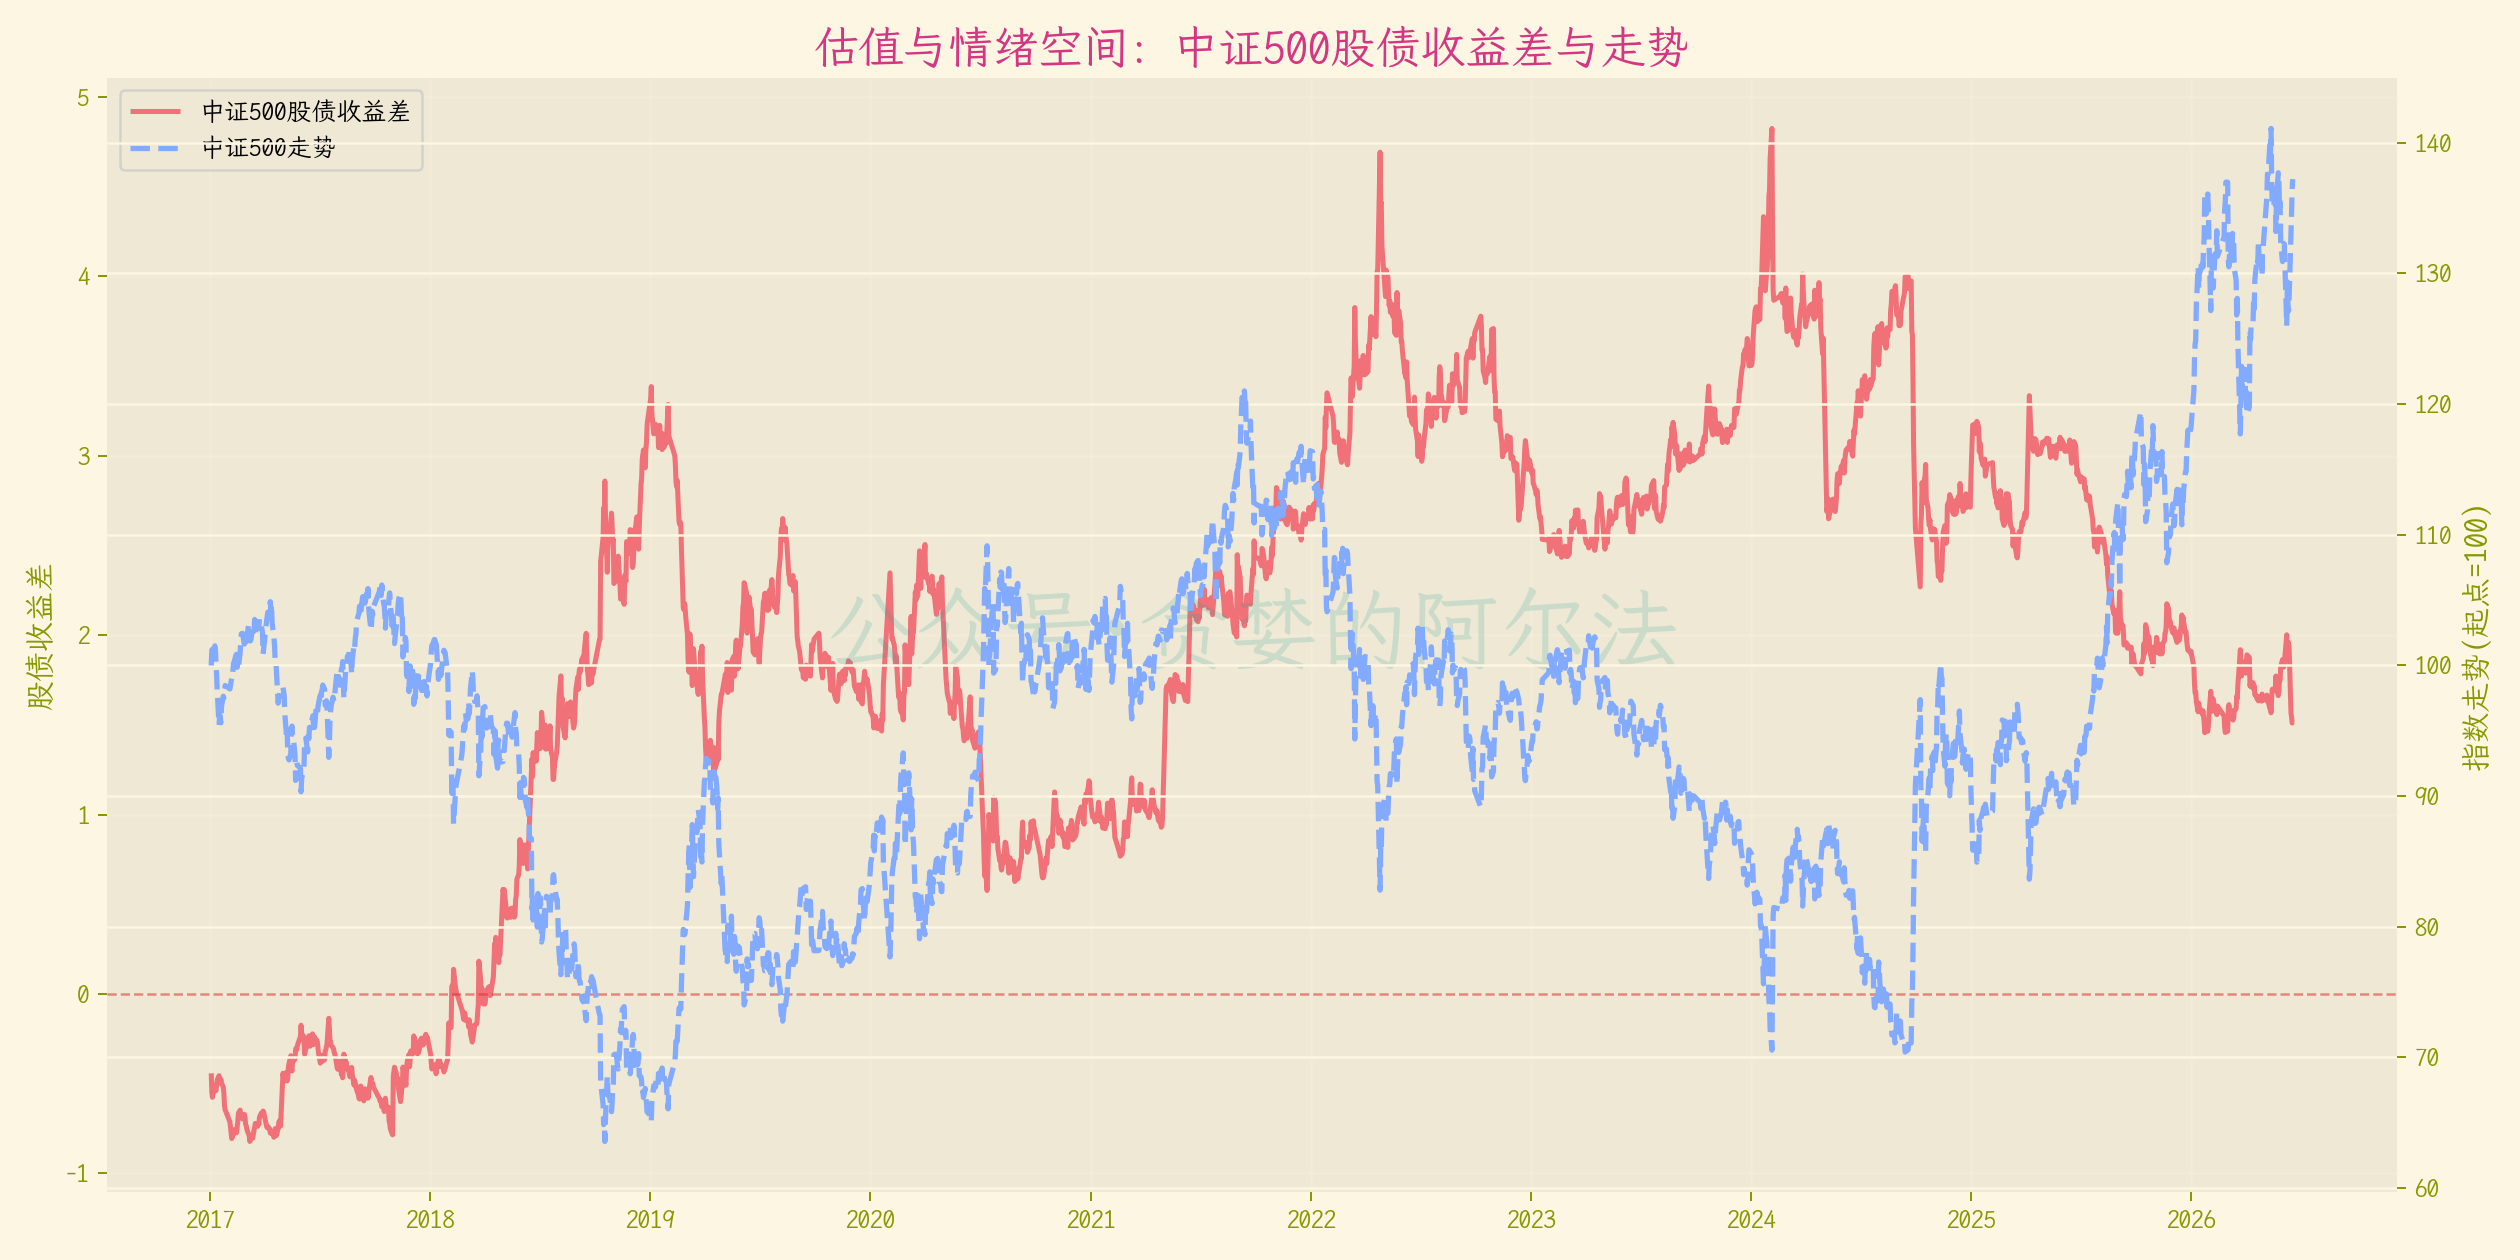
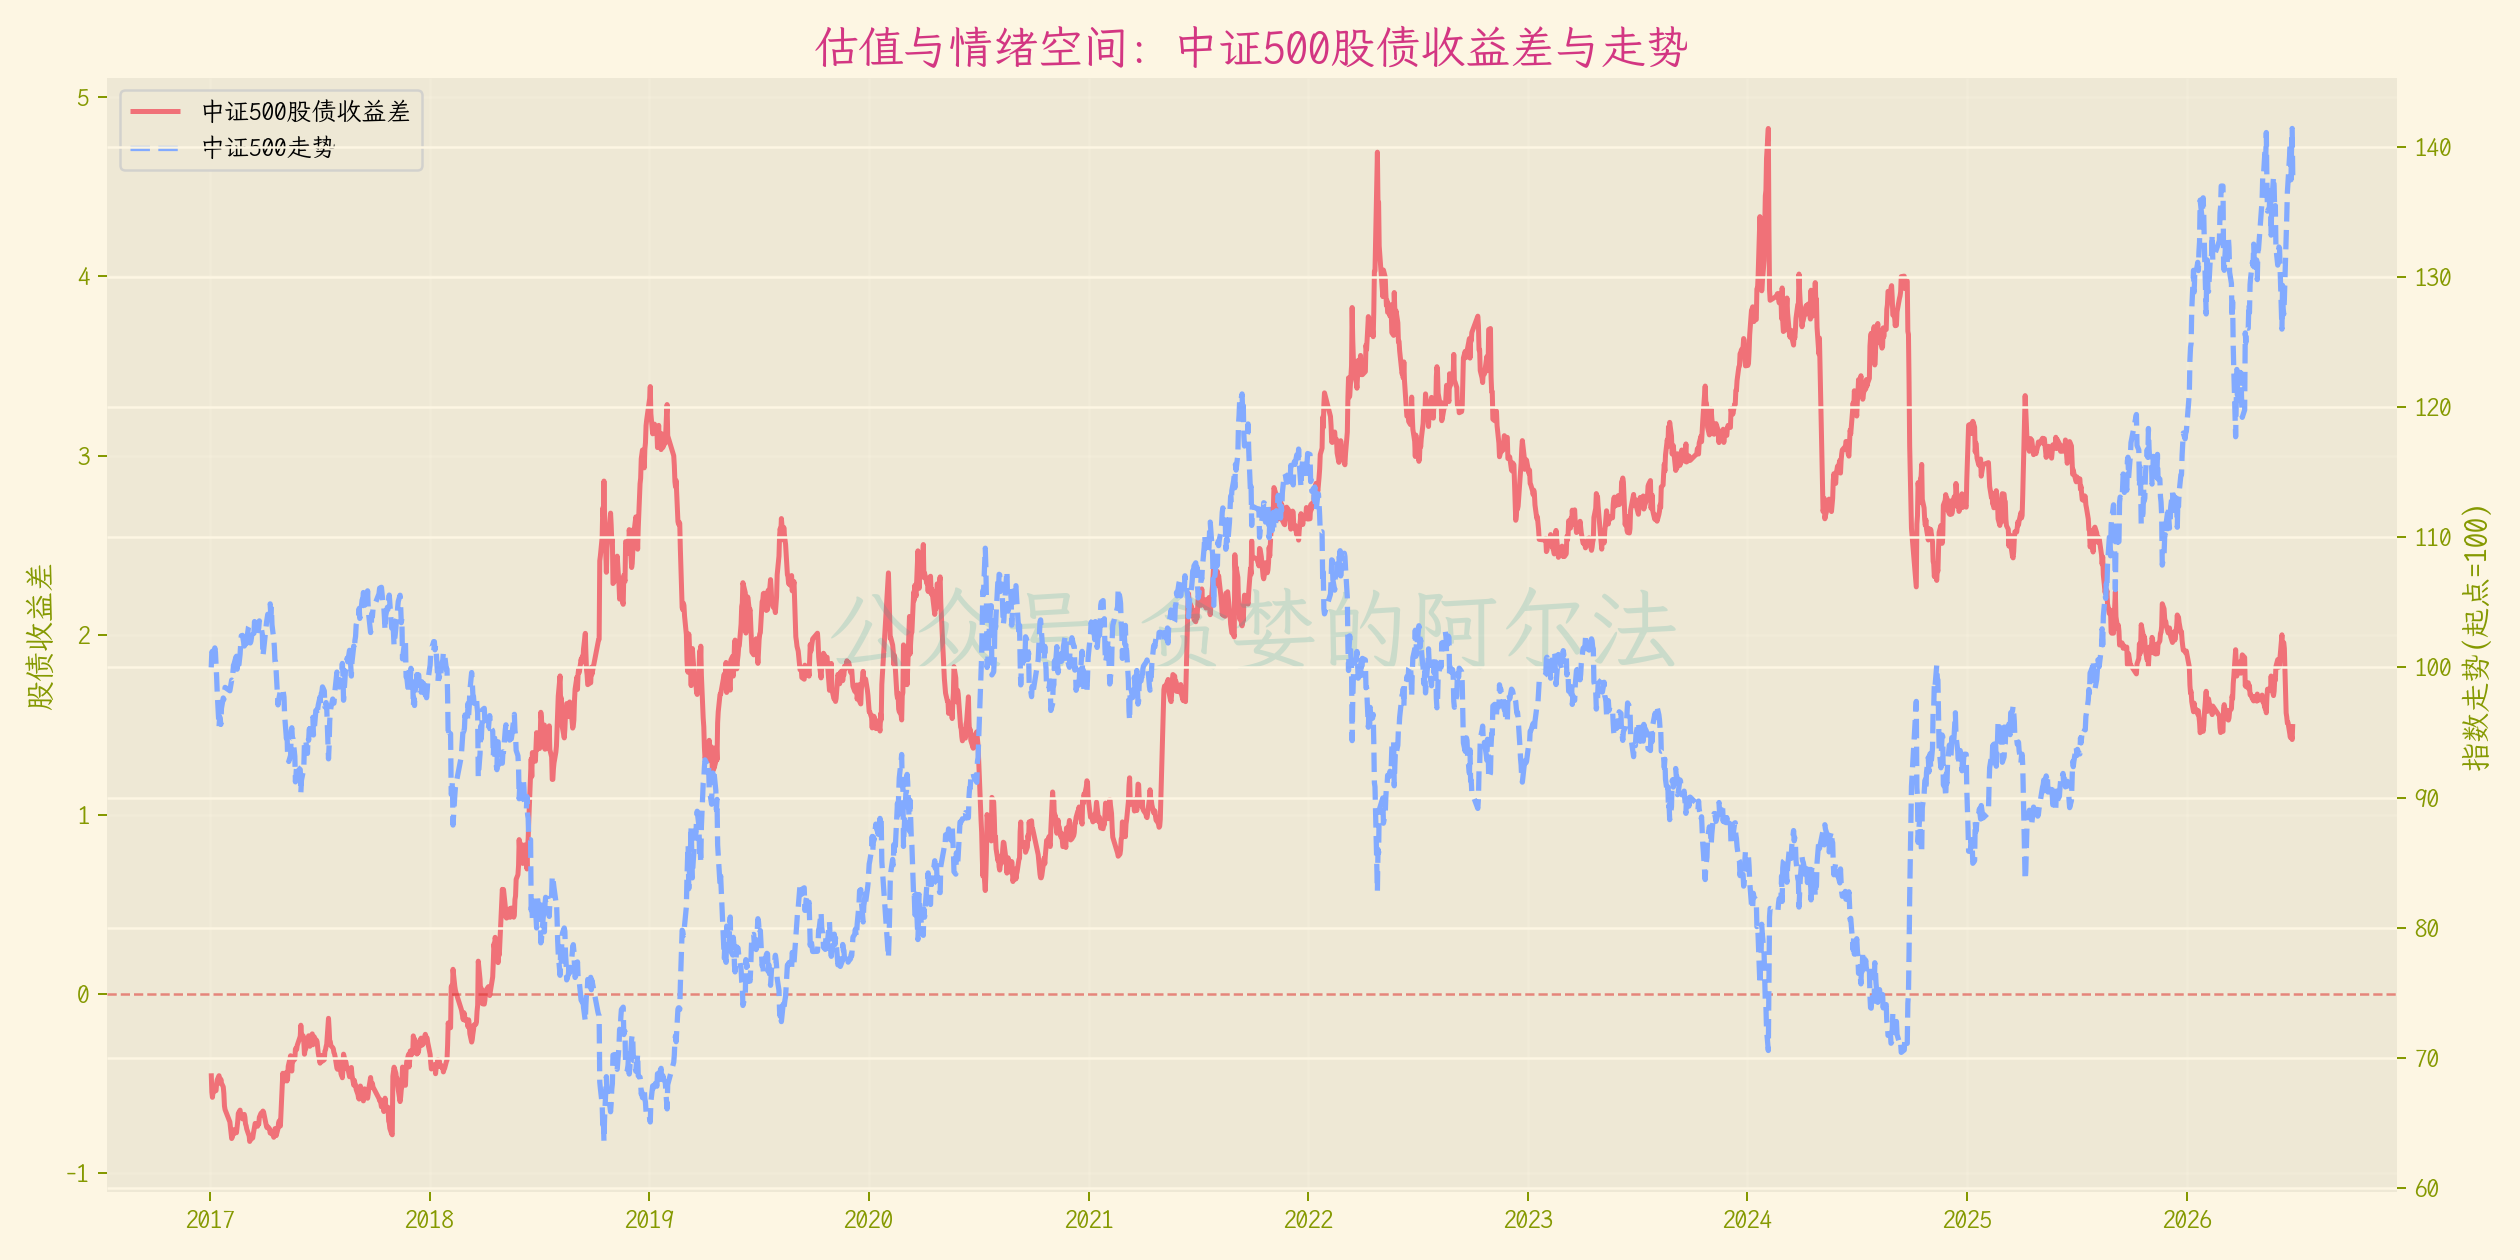
sync: 20260627

diff --git a/docs/bull_market/bull_market_score.md b/docs/bull_market/bull_market_score.md
@@ -1,13 +1,13 @@
 # 牛市概率评分
 
-当前总分：**69.6/100**
+当前总分：**67.9/100**
 
 状态判断：**牛市线索存在，但仍需宽度确认**
 
 | 模块 | 权重 | 得分 | 核心证据 |
 |---|---:|---:|---|
-| 全球 AI 重估 | 20 | 20.0 | 2023年以来截至2026-06-20，AI受益市场平均涨幅约 177.3%，中证500约 45.6%。 |
+| 全球 AI 重估 | 20 | 20.0 | 2023年以来截至2026-06-27，AI受益市场平均涨幅约 166.1%，中证500约 46.1%。 |
 | 国内宏观修复 | 20 | 17.0 | 2026-05-01 CPI 1.2%，PPI 3.9%，PMI 50.0，M1-M2 -3.1pct。 |
-| 流动性活化 | 20 | 12.9 | 2026-06-17 近20日融资买入额/成交金额约 20.65%，疫情前均值 17.93%。 |
-| 市场宽度扩散 | 20 | 6.5 | 2026-06-18 中证800 MA20宽度约 30%，60日创新高 56 只。 |
-| 估值与情绪空间 | 20 | 13.2 | 2026-06-18 10年国债 1.73%，沪深300股债收益差 5.01，中证500 1.51。 |
+| 流动性活化 | 20 | 12.9 | 2026-06-25 近20日融资买入额/成交金额约 20.35%，疫情前均值 17.93%。 |
+| 市场宽度扩散 | 20 | 4.6 | 2026-06-26 中证800 MA20宽度约 28%，60日创新高 21 只。 |
+| 估值与情绪空间 | 20 | 13.4 | 2026-06-26 10年国债 1.73%，沪深300股债收益差 5.15，中证500 1.50。 |
